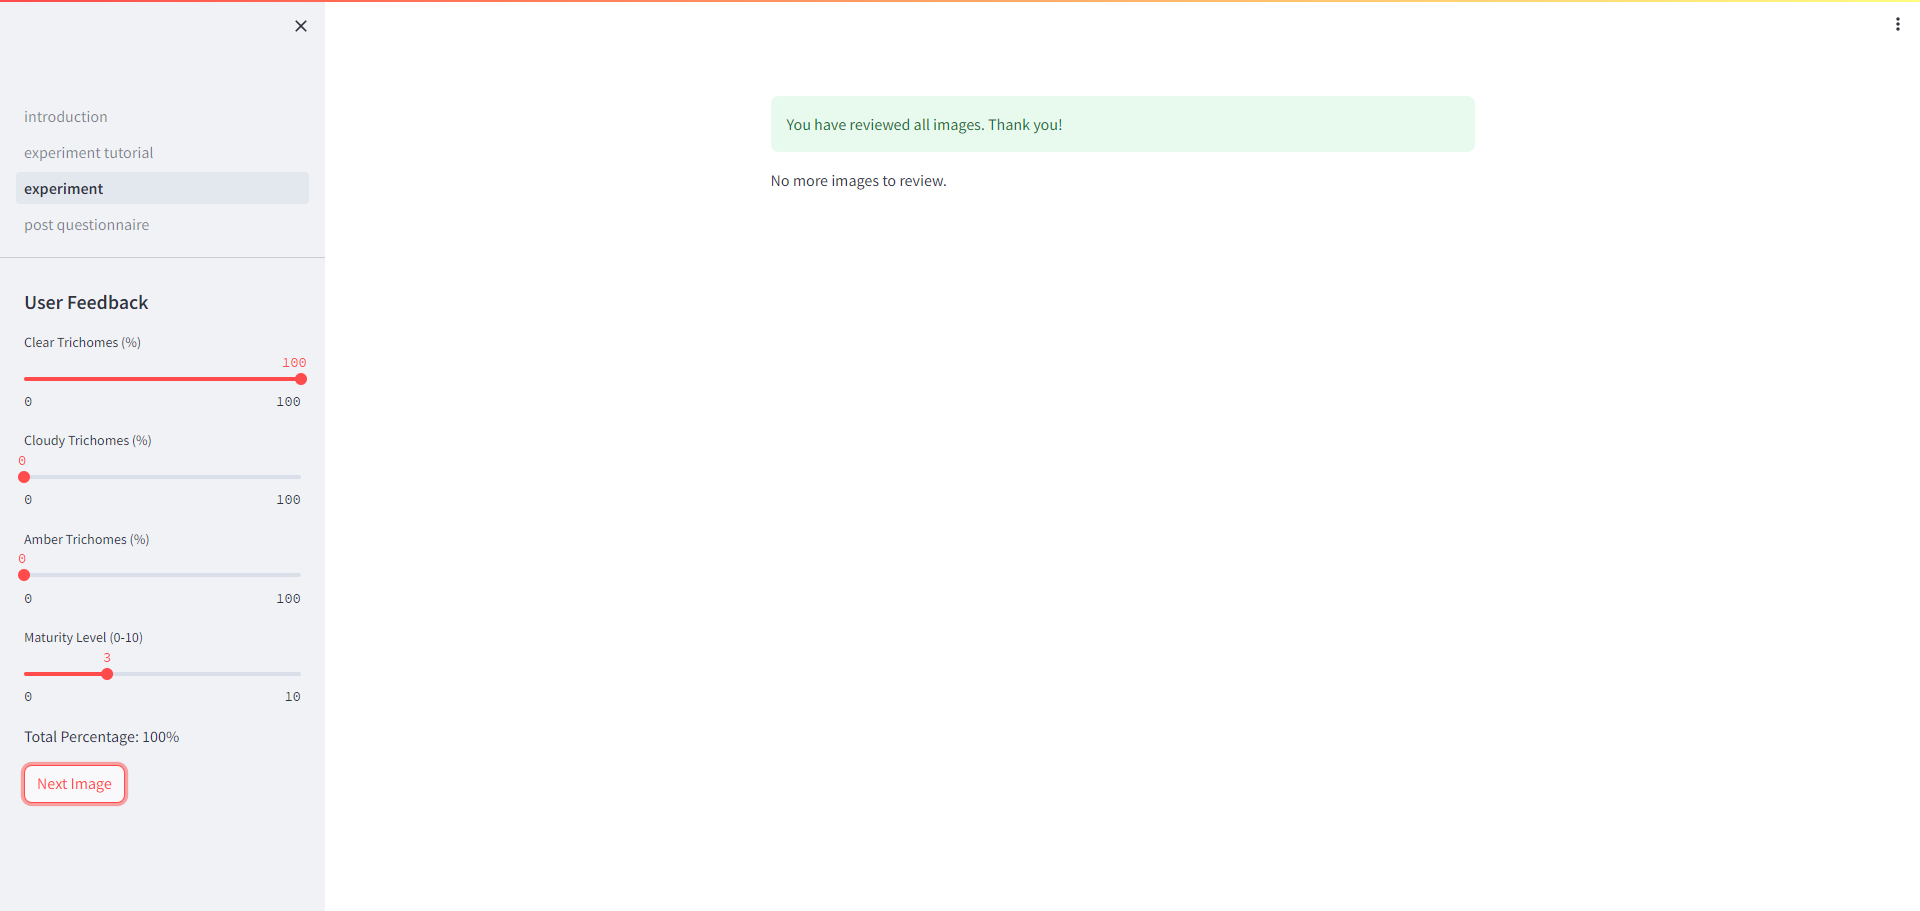
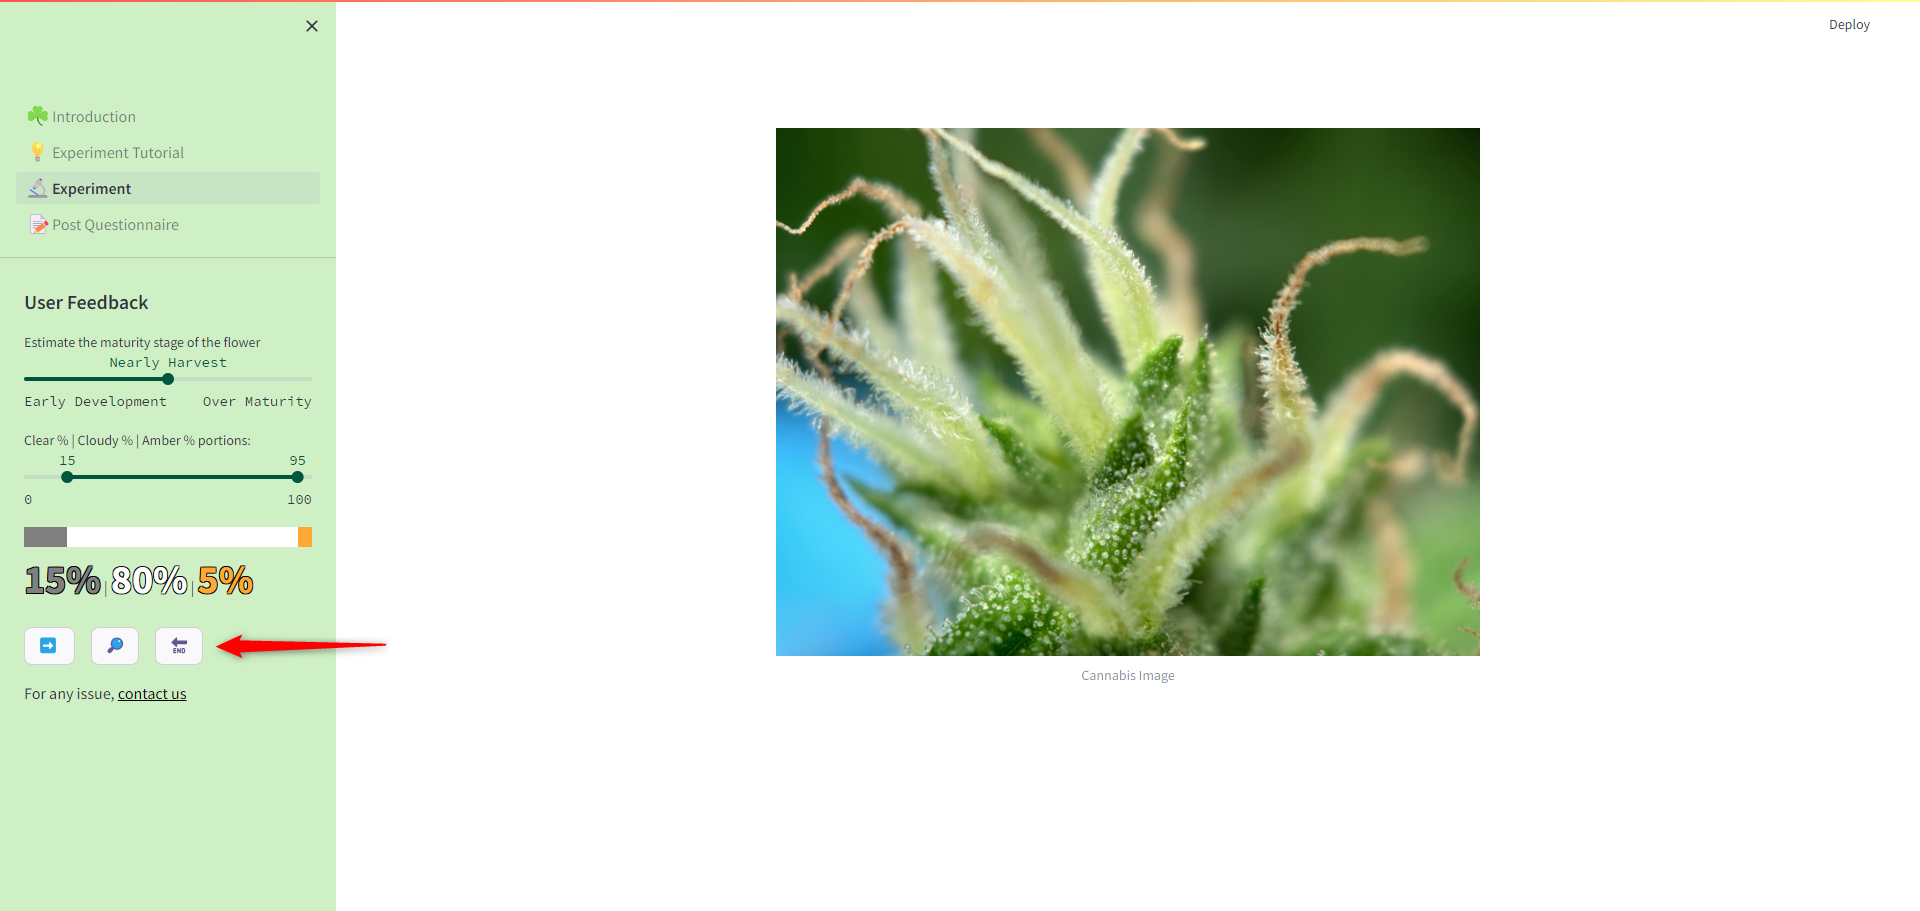
modify tutorial explanations and remove not nessary attributes

diff --git a/src/app/constants.py b/src/app/constants.py
@@ -36,7 +36,7 @@ two_buttons_css = """
 intro_text = '''
 # Trichome Classification Study
 
-This experiment aims to classify cannabis trichomes into clear, cloudy, and amber categories based on your observations. Your input will contribute to the development of a more advanced algorithm, which could be faster and more accurate in predicting the maturity level of cannabis.
+This experiment aims to classify cannabis trichomes into clear, cloudy, and amber categories based on your observations, as well as to assess the maturity level of the cannabis flower. Your input is valuable and will contribute to the development of a more advanced algorithm for both classification and maturity assessment. We deeply appreciate your full cooperation and the time you invest in providing detailed feedback. Your insights are crucial to the success of this project and our ability to better understand the maturation process of cannabis flowers.
 
 ## 📋 Pre-Questionnaire
 Please answer the following questions before participating:
@@ -45,19 +45,23 @@ Please answer the following questions before participating:
 2. 📧 Email
 3. 🎂 Age
 4. 👫 Gender
+5. 🏢 Company/Incubator Name
+6. 📊 Type of Entity
 
 ## 📝 Instructions
 1. ✅ Check the box to indicate your consent to participate in the study.
 2. 🚀 Click the "Submit" button to begin.
 
-Your participation is highly valuable, and we appreciate your contribution to this research.
+We appreciate your contribution to this research.
 
 Thank you for your time and involvement!
 '''
 
 #  ---------- Tutorial page constants ---------- 
 image_display_area = utils.get_image_as_base64('pages/images/images_area.png')
+maturity_estimate = utils.get_image_as_base64('pages/images/maturity_estimate_slider.png')
 sidebar_feedback = utils.get_image_as_base64('pages/images/review_slider.png')
+zoom_image = utils.get_image_as_base64('pages/images/zoom_image.png')
 adjusting_sliders = utils.get_image_as_base64('pages/images/submit_image.png')
 submit_feedback = utils.get_image_as_base64('pages/images/finish_review.png')
 
@@ -81,19 +85,36 @@ The experiment interface is divided into two main sections:
     <img src="{image_display_area}" alt="Image Display Area" style="width: {width}%; height: auto;">
 </div>
 
-### 2. Sidebar - Feedback and Controls
+### 2. User Feedback Sliders Explained
 
-- Here, you will find sliders to adjust the percentage of different trichome types.
-- The sliders include:
-    - **Clear Trichomes (%)**: Adjust the percentage of clear trichomes.
-    - **Cloudy Trichomes (%)**: Adjust the percentage of cloudy trichomes.
-    - **Amber Trichomes (%)**: Adjust the percentage of amber trichomes.
-    - **Maturity Level (0-10)**: Indicate the maturity level of the trichomes.
+#### Maturity Stage Slider:
+- This slider allows you to estimate the maturity stage of the cannabis flower. The scale ranges from "Early Development" to "Over Maturity."
+- You can move the slider to the position that best matches your assessment of the flower's maturity stage. In this example, the slider is set to "Nearly Harvest," indicating that the flower is approaching the optimal harvest time.
+
+<div>
+    <img src="{maturity_estimate}" alt="Sidebar Feedback" style="width: {width}%; height: auto;">
+</div>
+
+#### Trichome Percentage Sliders:
+These sliders are used to estimate the proportion of clear, cloudy, and amber trichomes in the image.
+
+Each type of trichome corresponds to a stage of maturity:
+
+- **Clear Trichomes** (%)
+- **Cloudy Trichomes** (%)
+- **Amber Trichomes** (%)
+- To provide your feedback, adjust each slider to reflect the percentage you estimate for each trichome type. The sliders are interactive, and as you move them, the numerical percentage will update accordingly.
 
 <div>
     <img src="{sidebar_feedback}" alt="Sidebar Feedback" style="width: {width}%; height: auto;">
 </div>
 
+#### Navigations Buttons
+- **➡ (Next Image) Button**: Use this to send your trichome assessment for the current image and move to the next image.
+
+- **🔎 (Zoom Image) Button**: Click to zoom the image for a closer look, aiding in more precise feedback.
+
+- **🔚 (End Experiment) Button**: Ends the experiment early. You can click this if you need to exit the experiment before reviewing all the images. However, we encourage all participants to complete the assessment of all images provided
 
 ## Flow of Reviewing Images
 
@@ -104,27 +125,20 @@ The experiment interface is divided into two main sections:
 
 ### Step 2: Adjusting Sliders
 
-- Based on your observation, use the sliders in the sidebar to estimate the percentages of clear, cloudy, and amber trichomes.
-- Make sure the total percentage sums up to 100%.
+- Based on your observation, use the sliders in the sidebar to estimate the maturity level and the percentages of clear, cloudy, and amber trichomes.
 
 ### Step 3: Submitting Your Feedback
 
-- After adjusting the sliders, click on the **Next Image** button to submit your feedback.
+- After adjusting the sliders, click on the ➡ (Next image) button to submit your feedback.
+- For your convinience, you can use the 🔎 (Zoom Image) button to zoom the image for a closer look, aiding in more accurate feedback.
 - This action will save your inputs and load the next image for review.
-
-<div>
-    <img src="{adjusting_sliders}" alt="Adjusting Sliders" style="width: {width}%; height: auto;">
-</div>
 
 
 ### Step 4: Completing the Experiment
 
 - Continue the process of reviewing images and submitting feedback.
-- Once all images have been reviewed, a message will thank you for your participation.
+- Once all images have been reviewed or you have clicked the 🔚 (End experiment) button, a message will thank you for your participation.
 
-<div>
-    <img src="{submit_feedback}" alt="Submit Feedback" style="width: {width}%; height: auto;">
-</div>
 
 ## Video Demonstration
 Watch this video to see the process of tagging images in action.

diff --git a/src/app/streamlit_utils.py b/src/app/streamlit_utils.py
@@ -2,6 +2,18 @@ import constants as const
 import streamlit as st
 import db_utils
 
+def setup_intro_page():
+
+    if not "switch_to_tutorial_page" in st.session_state:
+        st.session_state.switch_to_tutorial_page = False
+
+    if not "user_registered" in st.session_state:
+        st.session_state.user_registered = False
+
+    if st.session_state.switch_to_tutorial_page:
+        switch_page("Experiment Tutorial")
+
+
 def display_sidebar():
     st.markdown(const.sidebar_color_css, unsafe_allow_html=True)
     with st.sidebar:
@@ -19,18 +31,12 @@ def display_experiment_sidebar():
             st.session_state['clear_percentage'] = const.DEFAULT_CLEAR_PERCENTAGE
         if 'cloudy_percentage' not in st.session_state:
             st.session_state['cloudy_percentage'] = const.DEFAULT_CLOUDY_PERCENTAGE
-            
-        # Create a question to select the cultivation week
-        cultivation_week = st.selectbox(
-            "Select the Cultivation Week of the Flower",
-            options=const.cultivation_weeks
-        )
-        
+
         maturity_stages = ['Early Development', 'Mid Flower', 'Nearly Harvest', 'At Harvest', 'Over Maturity']
         maturity_level = st.select_slider(
-        'Select the Maturity Stage of the Flower',
+        'Estimate the maturity stage of the flower',
         options=maturity_stages,
-        value='Early Development'
+        value='Nearly Harvest',
         )
         min_val, max_val = st.slider(
             "Clear % | Cloudy % | Amber % portions:",
@@ -47,11 +53,11 @@ def display_experiment_sidebar():
         st.markdown(const.percentages_html(clear_percentage, cloudy_percentage, amber_percentage), unsafe_allow_html=True)
         st.markdown(const.two_buttons_css, unsafe_allow_html=True)
         columns = st.columns(3)
-        submit_feedback = columns[0].button('Next Image')
-        columns[1].link_button('Open Image', st.session_state.current_image_path)
-        finish_experiment = columns[2].button('Finish')
+        submit_feedback = columns[0].button('➡ ', help="Next image")
+        columns[1].link_button('🔎 ', st.session_state.current_image_path, help="Zoom image")
+        finish_experiment = columns[2].button('🔚', help="End experiment")
         st.markdown(const.assistance_message_app(const.contact_email), unsafe_allow_html=True)
-    return submit_feedback, clear_percentage, cloudy_percentage, amber_percentage, maturity_level, cultivation_week, finish_experiment
+    return submit_feedback, clear_percentage, cloudy_percentage, amber_percentage, maturity_level, finish_experiment
 
 # Function to display the questionnaire
 def display_post_questionnaire():

diff --git a/src/app/☘_Introduction.py b/src/app/☘_Introduction.py
@@ -8,23 +8,12 @@ import streamlit_utils as st_utils
 
 st.set_page_config(
     page_title="Introduction",
-    page_icon="👋",
+    page_icon="☘",
 )
 
 
 st.markdown(const.intro_text)
-
-
-if not "switch_to_tutorial_page" in st.session_state:
-    st.session_state.switch_to_tutorial_page = False
-
-
-if not "user_registered" in st.session_state:
-    st.session_state.user_registered = False
-
-if st.session_state.switch_to_tutorial_page:
-    switch_page("Experiment Tutorial")
-    
+st_utils.setup_intro_page()
 st_utils.display_sidebar()
 
 with st.form("user_info_form"):
@@ -32,12 +21,17 @@ with st.form("user_info_form"):
     email = st.text_input("Email:", placeholder="Please enter your email address")
     age = st.number_input('Age', min_value=18, max_value=100)
     gender = st.selectbox('Gender', ['Female', 'Male', 'Other', 'Prefer not to say'])
+    company = st.text_input("Company/Incubator Name:", placeholder="Enter your company or incubator name")
+    entity_type = st.selectbox('Type of Entity', ['Incubator', 'Commercial Grower', 'Research Facility', 'Other'])
     consent = st.checkbox("I agree to participate in the study")
 
     submitted = st.form_submit_button("Submit")
-    if submitted and user_name and consent:
+    if submitted:
+        # validate all fields
+        if not all([user_name, email, age, gender, company, entity_type, consent]):
+            st.error("Please fill out all fields and agree to participate.")
         # Validate the email format using a regular expression
-        if not re.match(r"[^@]+@[^@]+\.[^@]+", email):
+        elif not re.match(r"[^@]+@[^@]+\.[^@]+", email):
             st.error("Please enter a valid email address.")
         else:
             st.session_state.user_name = user_name
@@ -47,6 +41,8 @@ with st.form("user_info_form"):
                 'email': email, 
                 'age': age,
                 'gender': gender,
+                'company': company,
+                'entity_type': entity_type,
             }
             # db_utils.save_pre_questionnaire_feedback(pre_questionnaire_feedback)
             st.session_state.switch_to_tutorial_page = True
@@ -54,5 +50,3 @@ with st.form("user_info_form"):
             st.success("Thank you for participating!")
             time.sleep(2)
             switch_page("Experiment Tutorial")
-    elif submitted:
-        st.error("Please fill out all fields and agree to participate.")

diff --git a/src/app/db_utils.py b/src/app/db_utils.py
@@ -1,5 +1,69 @@
 import sqlite3
 import constants as const
+import sqlite3
+import constants as const
+
+
+def create_sqlite_databse():
+
+    print('Creating database...')
+    # Connect to SQLite database (it will be created if it doesn't exist)
+    conn = sqlite3.connect(const.EXPERIMENT_DATABASE_FILE)
+
+    print('Database created!')
+    # Create cursor object
+    cur = conn.cursor()
+    print('Creating tables...')
+    print('Creating pre_questionnaire table...')
+    # Create tables
+    cur.execute('''
+    CREATE TABLE IF NOT EXISTS pre_questionnaire (
+        id INTEGER PRIMARY KEY,
+        user_name TEXT,
+        email TEXT,
+        age INTEGER,
+        gender TEXT,
+    )
+    ''')
+
+    print('Creating experiment_feedback table...')
+    cur.execute('''
+    CREATE TABLE IF NOT EXISTS experiment_feedback (
+        id INTEGER PRIMARY KEY,
+        user_name TEXT,
+        timestamp TEXT,
+        image_path TEXT,
+        clear_percentage INTEGER,
+        cloudy_percentage INTEGER,
+        amber_percentage INTEGER,
+        maturity_level INTEGER,
+        time_taken_seconds INTEGER
+    )
+    ''')
+
+    print('Creating post_questionnaire table...')
+    cur.execute('''
+    CREATE TABLE IF NOT EXISTS post_questionnaire (
+        id INTEGER PRIMARY KEY,
+        user_name TEXT,
+        difficulty TEXT,
+        experience_level TEXT,
+        cultivation_purpose TEXT,
+        vision_quality TEXT,
+        ui_feedback TEXT,
+        confidence INTEGER,
+        educational_background TEXT,
+        technical_expertise INTEGER,
+        time_of_day TEXT,
+        image_impressions TEXT,
+        suggestions TEXT,
+        assistive_devices BOOLEAN,
+        additional_comments TEXT
+    )
+    ''')
+
+    print('Tables created!')
+
 
 def save_pre_questionnaire_feedback(feedback):
     conn = sqlite3.connect(const.EXPERIMENT_DATABASE_FILE)

diff --git a/src/app/pages/2_🔬_Experiment.py b/src/app/pages/2_🔬_Experiment.py
@@ -25,7 +25,7 @@ if 'started_experiment' not in st.session_state:
     st.session_state.start_time = time.time()  # Initialize start time here
     st.session_state.current_image_path, st.session_state.current_image_number = utils.load_random_image(st.session_state.reviewed_images)
 
-submit_feedback, clear_percentage, cloudy_percentage, amber_percentage, maturity_level, cultivation_week, finish_experiment = st_utils.display_experiment_sidebar()
+submit_feedback, clear_percentage, cloudy_percentage, amber_percentage, maturity_level, finish_experiment = st_utils.display_experiment_sidebar()
 
 # if user wants to finish the experiment earlier
 if finish_experiment:
@@ -69,8 +69,7 @@ if submit_feedback:
 
 # Display the current image
 if st.session_state.current_image_path:
-    print(st.session_state.current_image_path)
-    st.image(st.session_state.current_image_path, caption="Cannabis Image", output_format="PNG")
+    st.image(st.session_state.current_image_path, caption="Cannabis Image", output_format="PNG", use_column_width='always')
     st.markdown(const.hide_img_fs, unsafe_allow_html=True)
 
 else:

diff --git a/src/app/pages/1_💡_Experiment_Tutorial.py b/src/app/pages/1_💡_Experiment_Tutorial.py
@@ -3,13 +3,11 @@ from streamlit_extras.switch_page_button import switch_page
 import constants as const
 import streamlit_utils as st_utils
 
-print(st.session_state)
-
 st.set_page_config(
     page_title="Tutorial",
     page_icon="💡",
 )
-
+# if the user didnt registered return him to the intro page
 if not "user_registered" in st.session_state or not st.session_state.get("user_registered", False):
     switch_page("Introduction")
 
